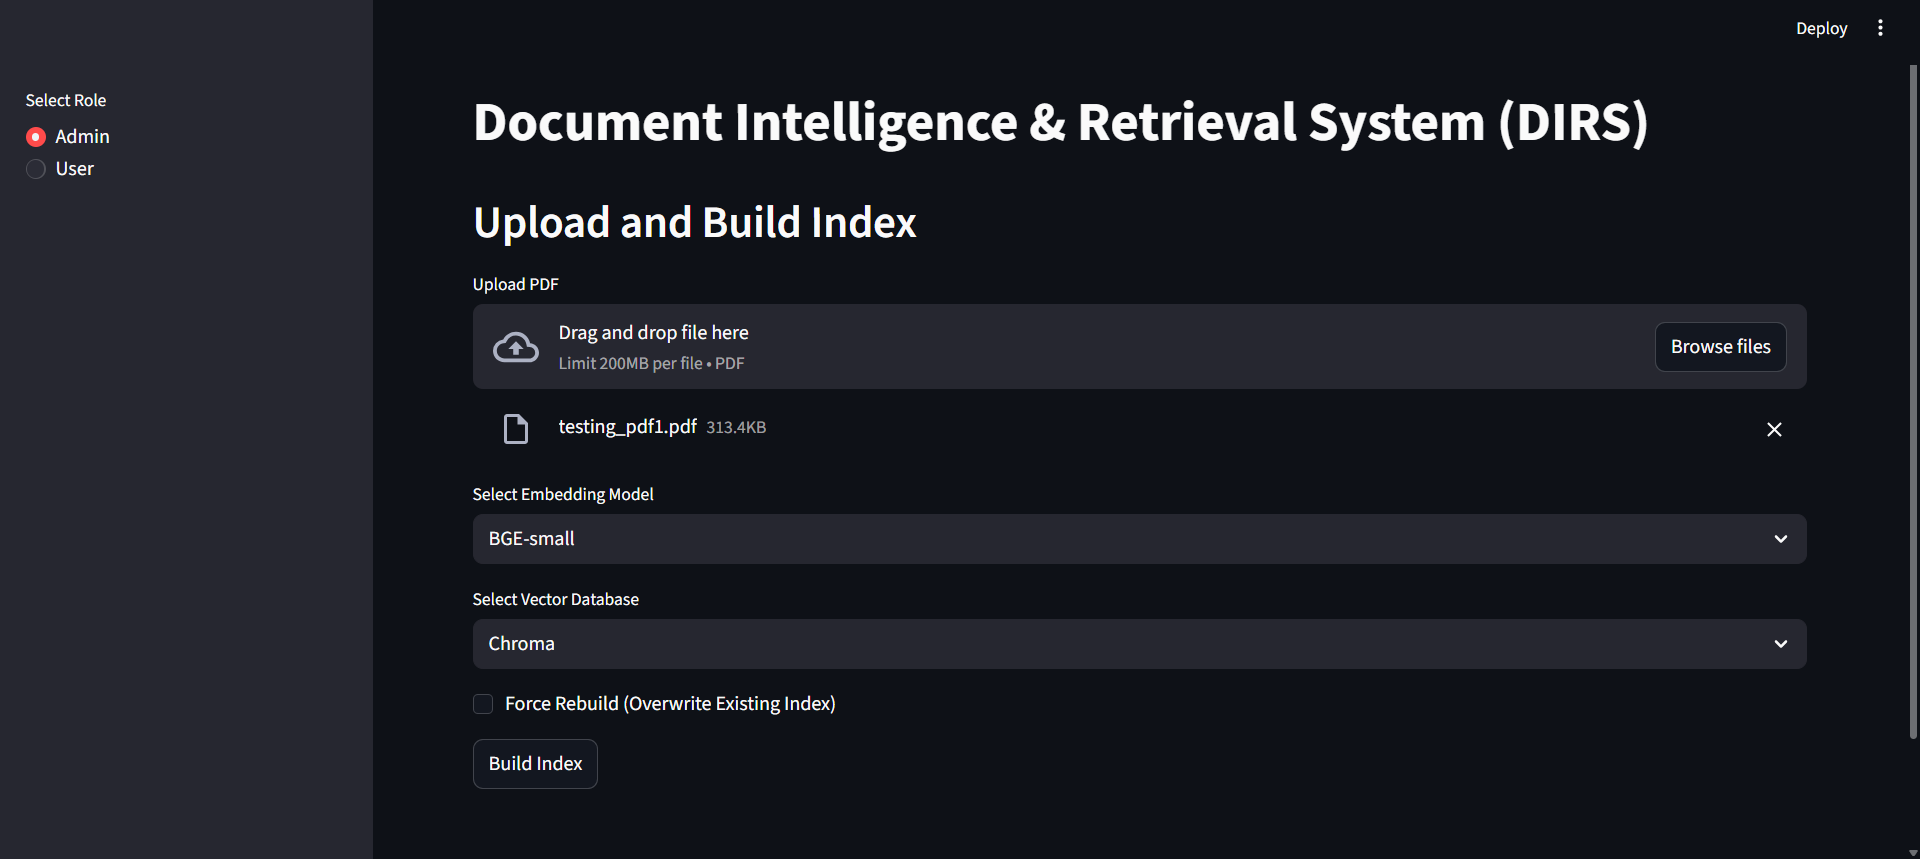
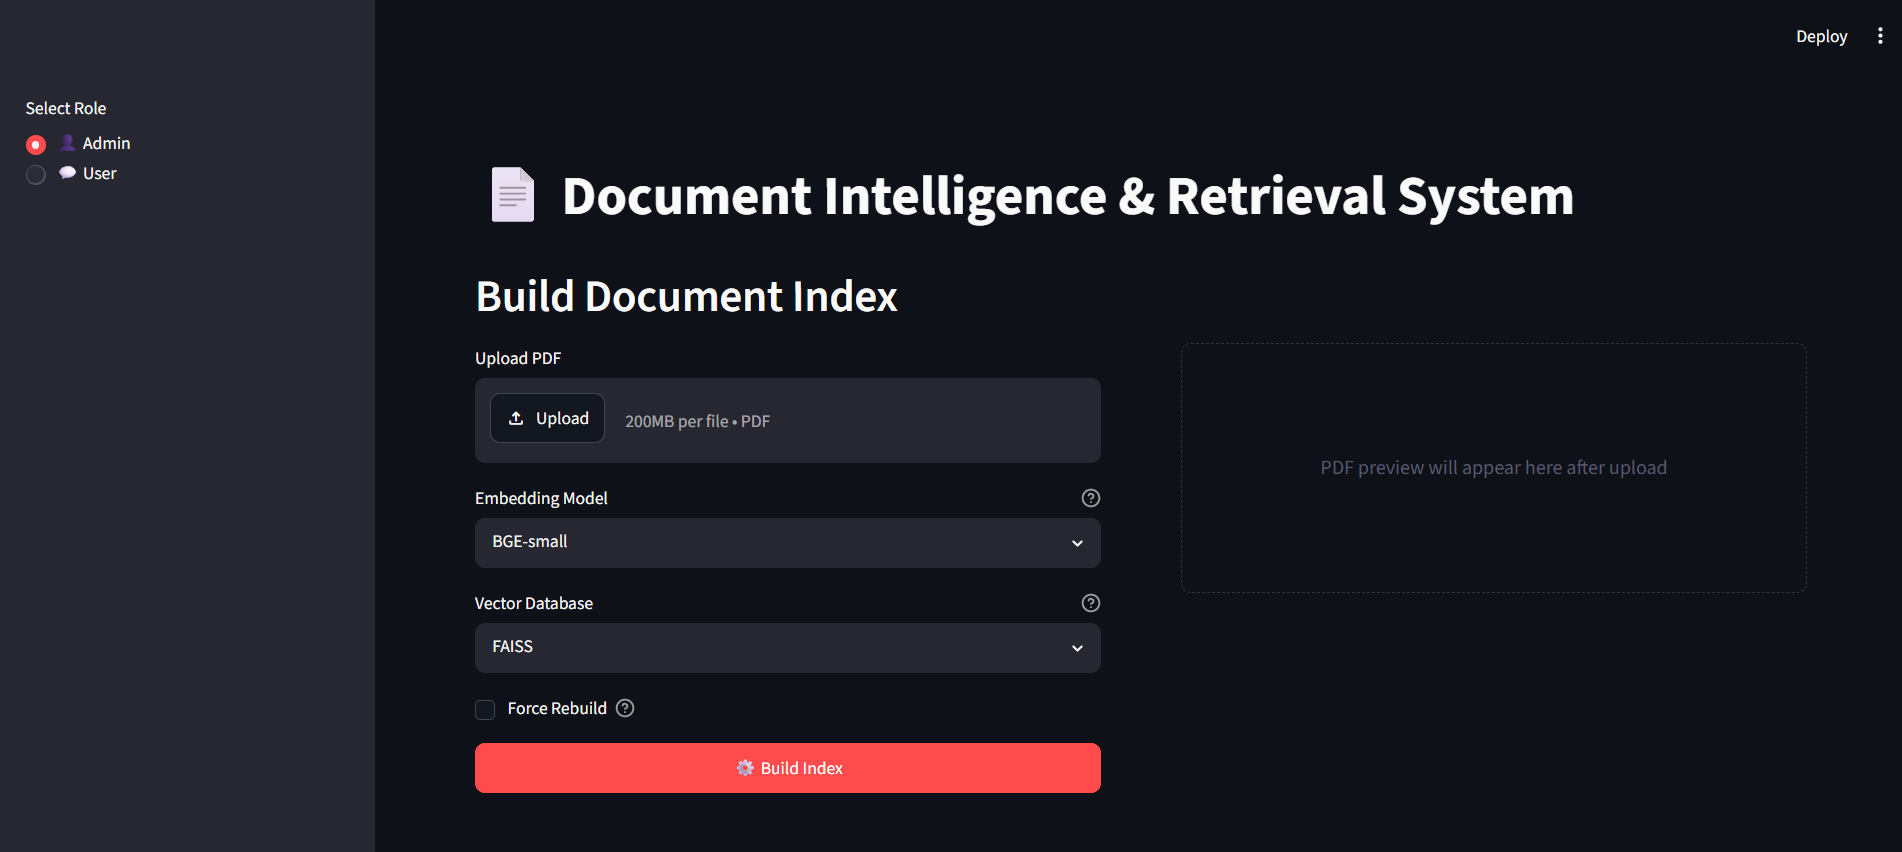
polishing

diff --git a/README.md b/README.md
@@ -69,8 +69,8 @@ User Question → Query Embedding → Hybrid Retrieval (Vector + BM25)
 ### User Interface
 ![User](assets/user.png)
 
-### Answer with Performance Metrics
-![Analysis](assets/analysis.png)
+### Displayed Answer
+![Analysis](assets/query.png)
 
 ### Retrieved Sources
 ![Sources](assets/sources.png)
